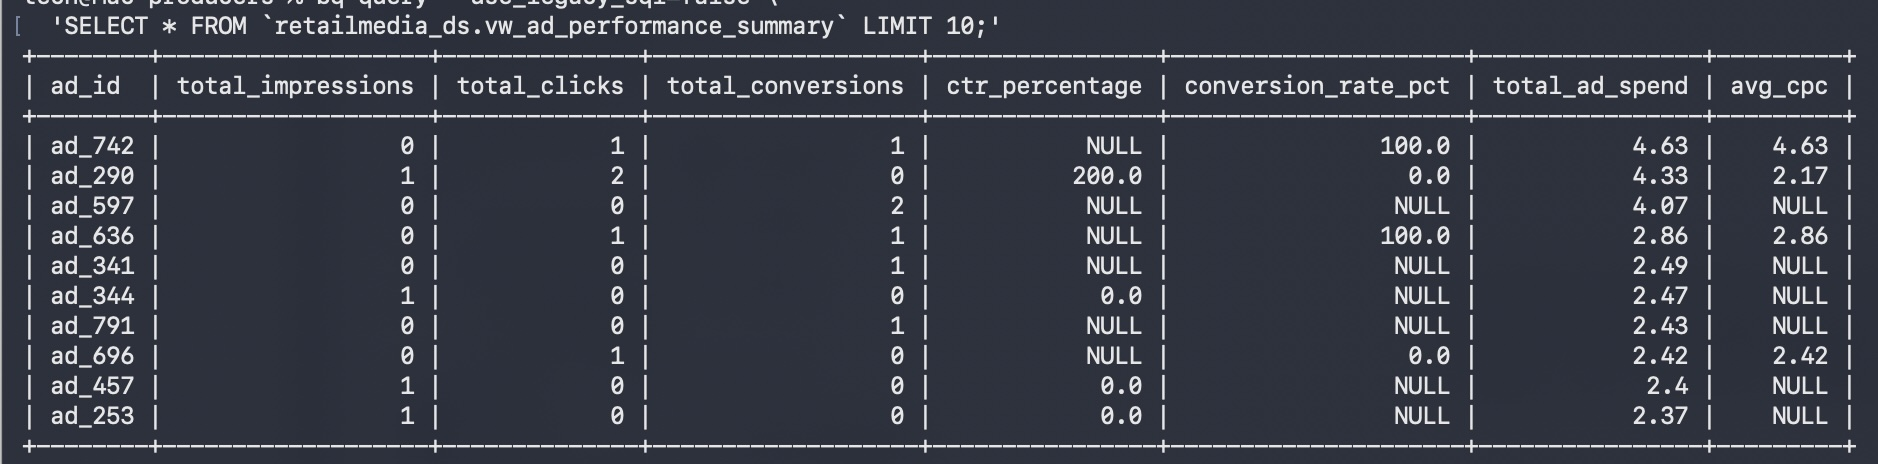
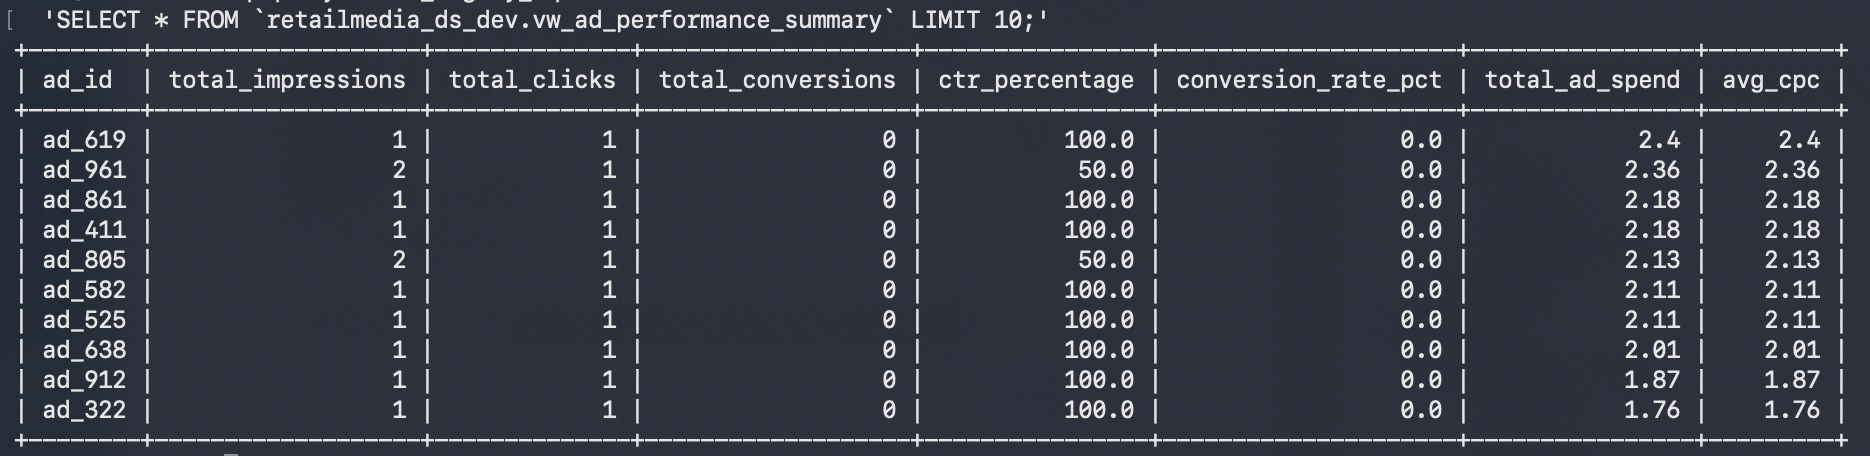
Fixing the mocked data

diff --git a/src/producers/producer.py b/src/producers/producer.py
@@ -1,8 +1,8 @@
 import json
+import os
 import random
 import time
 import uuid
-import os
 from google.cloud import pubsub_v1
 
 # Fetch GCP project dynamically or set your project ID string manually
@@ -12,30 +12,50 @@ topic_id = "ad-events-stream"
 publisher = pubsub_v1.PublisherClient()
 topic_path = publisher.topic_path(project_id, topic_id)
 
-event_types = ["impression", "click", "conversion"]
+# Helper function to format and send payload to Pub/Sub
+def publish_event(ad_id, user_id, event_type, cost):
+    event = {
+        "event_id": str(uuid.uuid4()),
+        "timestamp": time.strftime("%Y-%m-%dT%H:%M:%SZ", time.gmtime()),
+        "ad_id": ad_id,
+        "user_id": user_id,
+        "event_type": event_type,
+        "cost": cost
+    }
+    data = json.dumps(event).encode("utf-8")
+    publisher.publish(topic_path, data)
+    print(f"Published Event ID: {event['event_id']} | Type: {event_type:<10} | Ad: {ad_id} | User: {user_id} | Cost: ${cost}")
 
-print(f"Starting stream to GCP Pub/Sub topic: {topic_path}")
+print(f"Starting stateful stream to GCP Pub/Sub topic: {topic_path}")
 print("Press Ctrl+C to stop streaming.\n")
+
+# Funnel Probabilities
+CLICK_PROBABILITY = 0.15       # 15% Click-Through Rate (CTR)
+CONVERSION_PROBABILITY = 0.05  # 5% Conversion Rate (CVR)
 
 try:
     while True:
-        # Construct JSON payload matching your BigQuery schema
-        event = {
-            "event_id": str(uuid.uuid4()),
-            "timestamp": time.strftime("%Y-%m-%dT%H:%M:%SZ", time.gmtime()),
-            "ad_id": f"ad_{random.randint(100, 999)}",
-            "user_id": f"usr_{random.randint(1000, 9999)}",
-            "event_type": random.choice(event_types),
-            "cost": round(random.uniform(0.05, 2.50), 2)
-        }
+        # Generate target entity for this user session
+        ad_id = f"ad_{random.randint(100, 999)}"
+        user_id = f"usr_{random.randint(1000, 9999)}"
 
-        # Encode dict as JSON bytes
-        data = json.dumps(event).encode("utf-8")
+        # 1. ALWAYS emit an Impression first (Cost = $0.00 for CPM/CPC baseline)
+        publish_event(ad_id, user_id, "impression", 0.00)
+        time.sleep(0.2)
 
-        # Publish to Pub/Sub
-        future = publisher.publish(topic_path, data)
-        print(f"Published Event ID: {event['event_id']} | Type: {event['event_type']} | Cost: ${event['cost']}")
+        # 2. Roll for Click (Only happens AFTER an impression)
+        if random.random() < CLICK_PROBABILITY:
+            click_cost = round(random.uniform(0.50, 2.50), 2)
+            publish_event(ad_id, user_id, "click", click_cost)
+            time.sleep(0.2)
 
-        time.sleep(1)  # Stream 1 event per second
+            # 3. Roll for Conversion (Only happens AFTER a click)
+            if random.random() < CONVERSION_PROBABILITY:
+                publish_event(ad_id, user_id, "conversion", 0.00)
+                time.sleep(0.2)
+
+        print("-" * 65)
+        time.sleep(1)  # Delay between user sessions
+
 except KeyboardInterrupt:
     print("\nStream producer stopped.")

diff --git a/README.md b/README.md
@@ -10,24 +10,59 @@
 * **100% Infrastructure as Code:** Provisioned and managed entirely via Terraform (`main.tf`).
 
 ## Project Structure
-
+ 
 ```text
-retailmedia-pulse/
-├── LICENSE.txt
-├── README.md
-├── src/
-│   ├── generator.py            # Logic for generating simulated ad payload data
-│   ├── producers/
-│   │   ├── producer.py        # Stream producer publishing valid events to GCP Pub/Sub
-│   │   └── test_dlq.py        # Producer script for testing Dead-Letter Queue (valid & malformed payloads)
-│   └── utils/                 # Utility scripts and helper functions
-├── terraform                   # Executable Terraform binary
-├── terraform_config/
-│   ├── main.tf                # Primary IaC configuration (Pub/Sub, BigQuery tables & views, DLQ)
-│   ├── terraform.tfstate      # Terraform state file (git-ignored)
-│   └── terraform.tfstate.backup
-├── terraform.zip              # Compressed binary archive
-└── venv/                      # Local Python virtual environment (git-ignored)
+.
+├── assets/                                 # Visual proof & query sample outputs for documentation
+│   ├── vw_ad_performance_summary           # Query output/screenshot verifying performance summary view
+│   ├── vw_hourly_traffic_trends            # Query output/screenshot verifying hourly traffic trends view
+│   └── vw_user_engagement                  # Query output/screenshot verifying user engagement view
+│
+├── environments/                           # Infrastructure configurations organized by deployment stage
+│   ├── dev/                                # Development environment deployment
+│   │   ├── main.tf                         # Module call & GCP provider configuration for DEV
+│   │   ├── outputs.tf                      # Exposes DEV pipeline output values (dataset IDs, topics)
+│   │   ├── terraform.tfstate               # Active Terraform state tracking deployed DEV resources
+│   │   ├── terraform.tfstate.backup        # Backup state file prior to latest DEV terraform apply
+│   │   ├── terraform.tfvars                # Real parameter values for DEV (project_id, region, etc.)
+│   │   └── variables.tf                    # Root-level variable definitions for DEV
+│   ├── prod/                               # Production environment deployment
+│   │   ├── main.tf                         # Module call & GCP provider configuration for PROD
+│   │   ├── outputs.tf                      # Exposes PROD pipeline output values
+│   │   ├── terraform.tfvars                # Real parameter values for PROD environment
+│   │   └── variables.tf                    # Root-level variable definitions for PROD
+│   └── uat/                                # User Acceptance Testing (UAT) environment deployment
+│       ├── main.tf                         # Module call & GCP provider configuration for UAT
+│       ├── outputs.tf                      # Exposes UAT pipeline output values
+│       ├── terraform.tfvars                # Real parameter values for UAT environment
+│       └── variables.tf                    # Root-level variable definitions for UAT
+│
+├── modules/                                # Reusable, modularized Terraform definitions
+│   └── streaming_pipeline/                 # Core streaming pipeline module
+│       ├── main.tf                         # Core resource declarations (Pub/Sub, BQ tables, IAM, Views)
+│       ├── outputs.tf                      # Module output definitions exported to environment roots
+│       └── variables.tf                    # Input variable declarations required by the module
+│
+├── src/                                    # Python application source code for streaming pipeline
+│   ├── generator.py                        # Generates realistic mock ad-interaction payload data
+│   ├── producers/                          # Streaming publishers and testing utility scripts
+│   │   ├── producer.py                     # Primary Pub/Sub producer streaming logs to ad-events-stream
+│   │   └── test_dlq.py                     # Test producer firing malformed payloads to test DLQ logic
+│   └── utils/                              # Utility helper modules (logging, GCP client initialization)
+│
+├── terraform_config/                       # Legacy or root-level state backups
+│   ├── terraform.tfstate                   # Root-level Terraform state file
+│   └── terraform.tfstate.backup            # Previous root-level Terraform state backup
+│
+├── venv/                                   # Isolated Python virtual environment directory
+│   ├── bin/                                # Executables (python, pip, gcloud/CLI hooks)
+│   ├── include/                            # C headers for compiled Python packages
+│   └── lib/                                # Installed Python third-party dependencies (google-cloud-pubsub, etc.)
+│
+├── LICENSE.txt                             # Repository software usage license terms
+├── README.md                               # Project documentation, architecture overview, and setup guide
+├── terraform                               # Standalone Terraform CLI binary binary file
+└── terraform.zip                           # Compressed distribution archive for Terraform installer
 ```
 
 ## Prerequisites